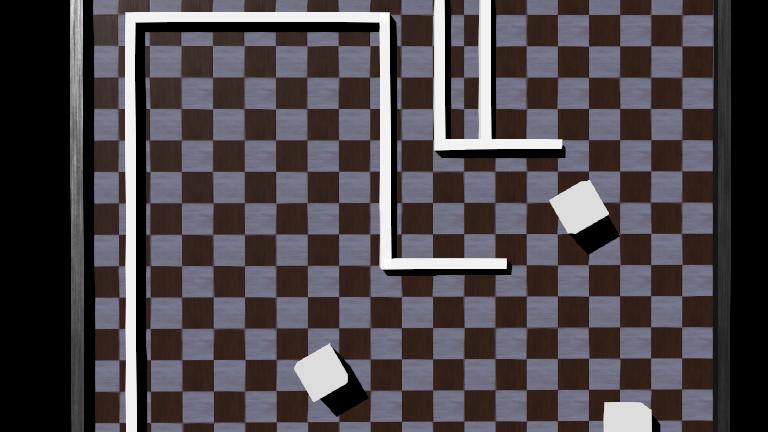
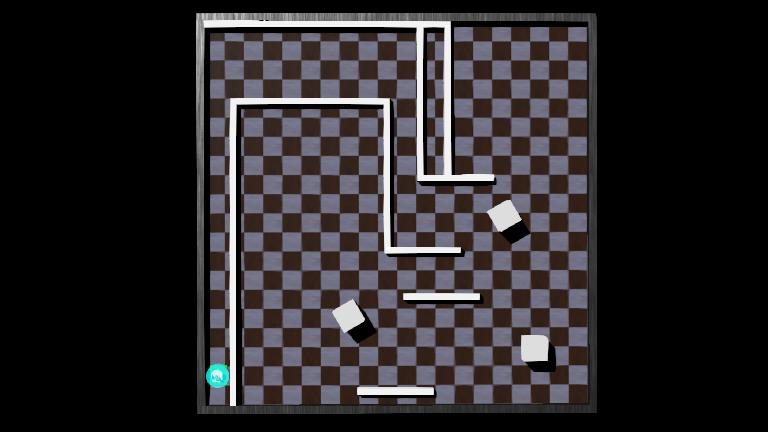
Obtener las posiciones y orientaciones de objetos

diff --git a/Webots/controllers/Supervisor_Mundo/Supervisor_Mundo.py b/Webots/controllers/Supervisor_Mundo/Supervisor_Mundo.py
@@ -15,26 +15,97 @@ timestep = int(robot.getBasicTimeStep())
 #  motor = robot.getDevice('motorname') 
 #  ds = robot.getDevice('dsname')
 #  ds.enable(timestep)
-"""
+
 
 Walls = []
 translation_field = []
 orientation_field = []
-position = []
 
-for dsnumber in range(0, 6):
+Obs_Translation_Field = []
+Obs_Orientation_Field = []
+Obs = []
+
+
+cant_paredes = 10
+cant_cajas = 3
+
+modo = 0 # 0 Obtener datos, 1 colocar paredes, 2 pruebas
+
+# -'-'-'-'-'-'-'-'-'-'-'-'-'-'-'-'- Obtener objetos del mundo -'-'-'-'-'-'-'-'-'-'-'-'-'-'-'-'-
+# Paredes
+for dsnumber in range(cant_paredes):
     Walls.append(robot.getFromDef('wall(' + str(dsnumber)+')'))
-    Walls[-1].getField('translation')
-"""
-wall = robot.getFromDef('wall(5)')
-translation_field = wall.getField('translation')
-rotation_field = wall.getField('rotation')
+    translation_field.append(Walls[-1].getField('translation'))
+    orientation_field.append(Walls[-1].getField('rotation'))
 
-new_value = [0, 0, 0]
-translation_field.setSFVec3f(new_value)
+# Obstaculos: Cajas
+for box_number in range(cant_cajas):
+    Obs.append(robot.getFromDef('BOX_'+str(box_number)))
+    Obs_Translation_Field.append(Obs[box_number].getField('translation'))
+    Obs_Orientation_Field.append(Obs[box_number].getField('rotation'))
 
-new_orientation = [0,0,1,3.14/2]
-rotation_field.setSFRotation(new_orientation)
+
+# -'-'-'-'-'-'-'-'-'-'-'-'-'-'-'-'-'-'-'-'-'-'-'-'-'-'-'-'-'-'-'-'-'-'-'-'-'-'-'-'-'-'-'-'-'-'-
+
+
+# -'-'-'-'-'-'-'-'-'-'-'-'-'-'-'-'-'-'-'-'-'- Modos -'-'-'-'-'-'-'-'-'-'-'-'-'-'-'-'-'-'-'-'-'-
+if modo == 0:
+    # Obtener datos de las paredes:
+    # Obtener las posiciones de las paredes 
+    print(" \nPosiciones de las paredes")
+    for i in range(len(Walls)):
+        print('wall(',i,'): ',Walls[i].getPosition())
+        
+    # Obtener la orientación de las paredes 
+    print(' \nOrientación de las paredes')
+    for i in range(len(Walls)):
+        print('wall(',i,'): ',orientation_field[i].getSFVec3f())
+
+    # Obtener datos de las cajas
+    # Obtener las posiciones de las cajas
+    print(" \nPosiciones de las cajas")
+    for i in range(len(Obs)):
+        print('Obstaculo Caja ',i,': ', Obs[i].getPosition())
+
+    # Obtener la orientación de las cajas
+    print(' \nOrientación de las cajas')
+    for i in range(len(Obs)):
+        print('Obstaculo Caja ',i,': ', Obs_Orientation_Field[i].getSFVec3f())
+
+elif modo == 1:
+    # Mapa: Validación de algoritmos independientes
+    Walls_Positions =[[0.58, -1.09, 0.0],
+            [-2.13, -0.49999, 0.0],
+            [-1.09, 1.46, 0.0],
+            [-0.03, -2.32, 0.0],
+            [-0.130006, 0.49001, 0.0],
+            [0.33, -0.48, 0.0],
+            [0.300002, 1.50001, 0.0],
+            [0.76, 0.46, 0.0],
+            [-0.91, 2.46, 0.0],
+            [0.65999, 1.5, 0.0]]
+
+    Walls_Orientations = [[0.0, 0.0, 1.0, 0.0],
+                        [0.0, 0.0, 1.0, 1.5708],
+                        [0.0, 0.0, 1.0, 0.0],
+                        [0.0, 0.0, 1.0, 0.0],
+                        [0.0, 0.0, 1.0, 1.5708],
+                        [0.0, 0.0, 1.0, 0.0],
+                        [0.0, 0.0, 1.0, 1.5708],
+                        [0.0, 0.0, 1.0, 0.0],
+                        [0.0, 0.0, 1.0, 0.0],
+                        [0.0, 0.0, 1.0, 1.5708]]
+
+
+    for i in range(len(Walls)):
+        new_translation = Walls_Positions[i]
+        translation_field[i].setSFVec3f(new_translation)
+
+        new_orientation = Walls_Orientations[i]
+        orientation_field[i].setSFRotation(new_orientation)
+
+# -'-'-'-'-'-'-'-'-'-'-'-'-'-'-'-'-'-'-'-'-'-'-'-'-'-'-'-'-'-'-'-'-'-'-'-'-'-'-'-'-'-'-'-'-'-'-
+
 
 # Main loop:
 # - perform simulation steps until Webots is stopping the controller

diff --git a/Webots/controllers/Controlador_VD/Controlador_VD.py b/Webots/controllers/Controlador_VD/Controlador_VD.py
@@ -162,7 +162,14 @@ Agente_1 = Slave()
 if Agente_1.step(Agente_1.timestep) != -1:
     None
 
+
 Agente_1.DatosSensores_Init() 
+Agente_1.DatosSensores()
+
+# inicializar el ángulo de rotación del vehículo
+Agente_1.angulo = Agente_1.rotz_g
+Agente_1.phi = Agente_1.angulo
+
 Odometria.Odometria_Init(Agente_1)
 
 Explorar.Rutina_Inicio(Agente_1)
@@ -173,6 +180,7 @@ while Agente_1.step(Agente_1.timestep) != -1:
     Agente_1.DatosSensores()
     Rot_Control.Rot_Control(Agente_1.angulo,Agente_1)
     Explorar.Explorar(Agente_1)
+    
     
 
     if Agente_1.getTime() >= tiempos[u]*60:
